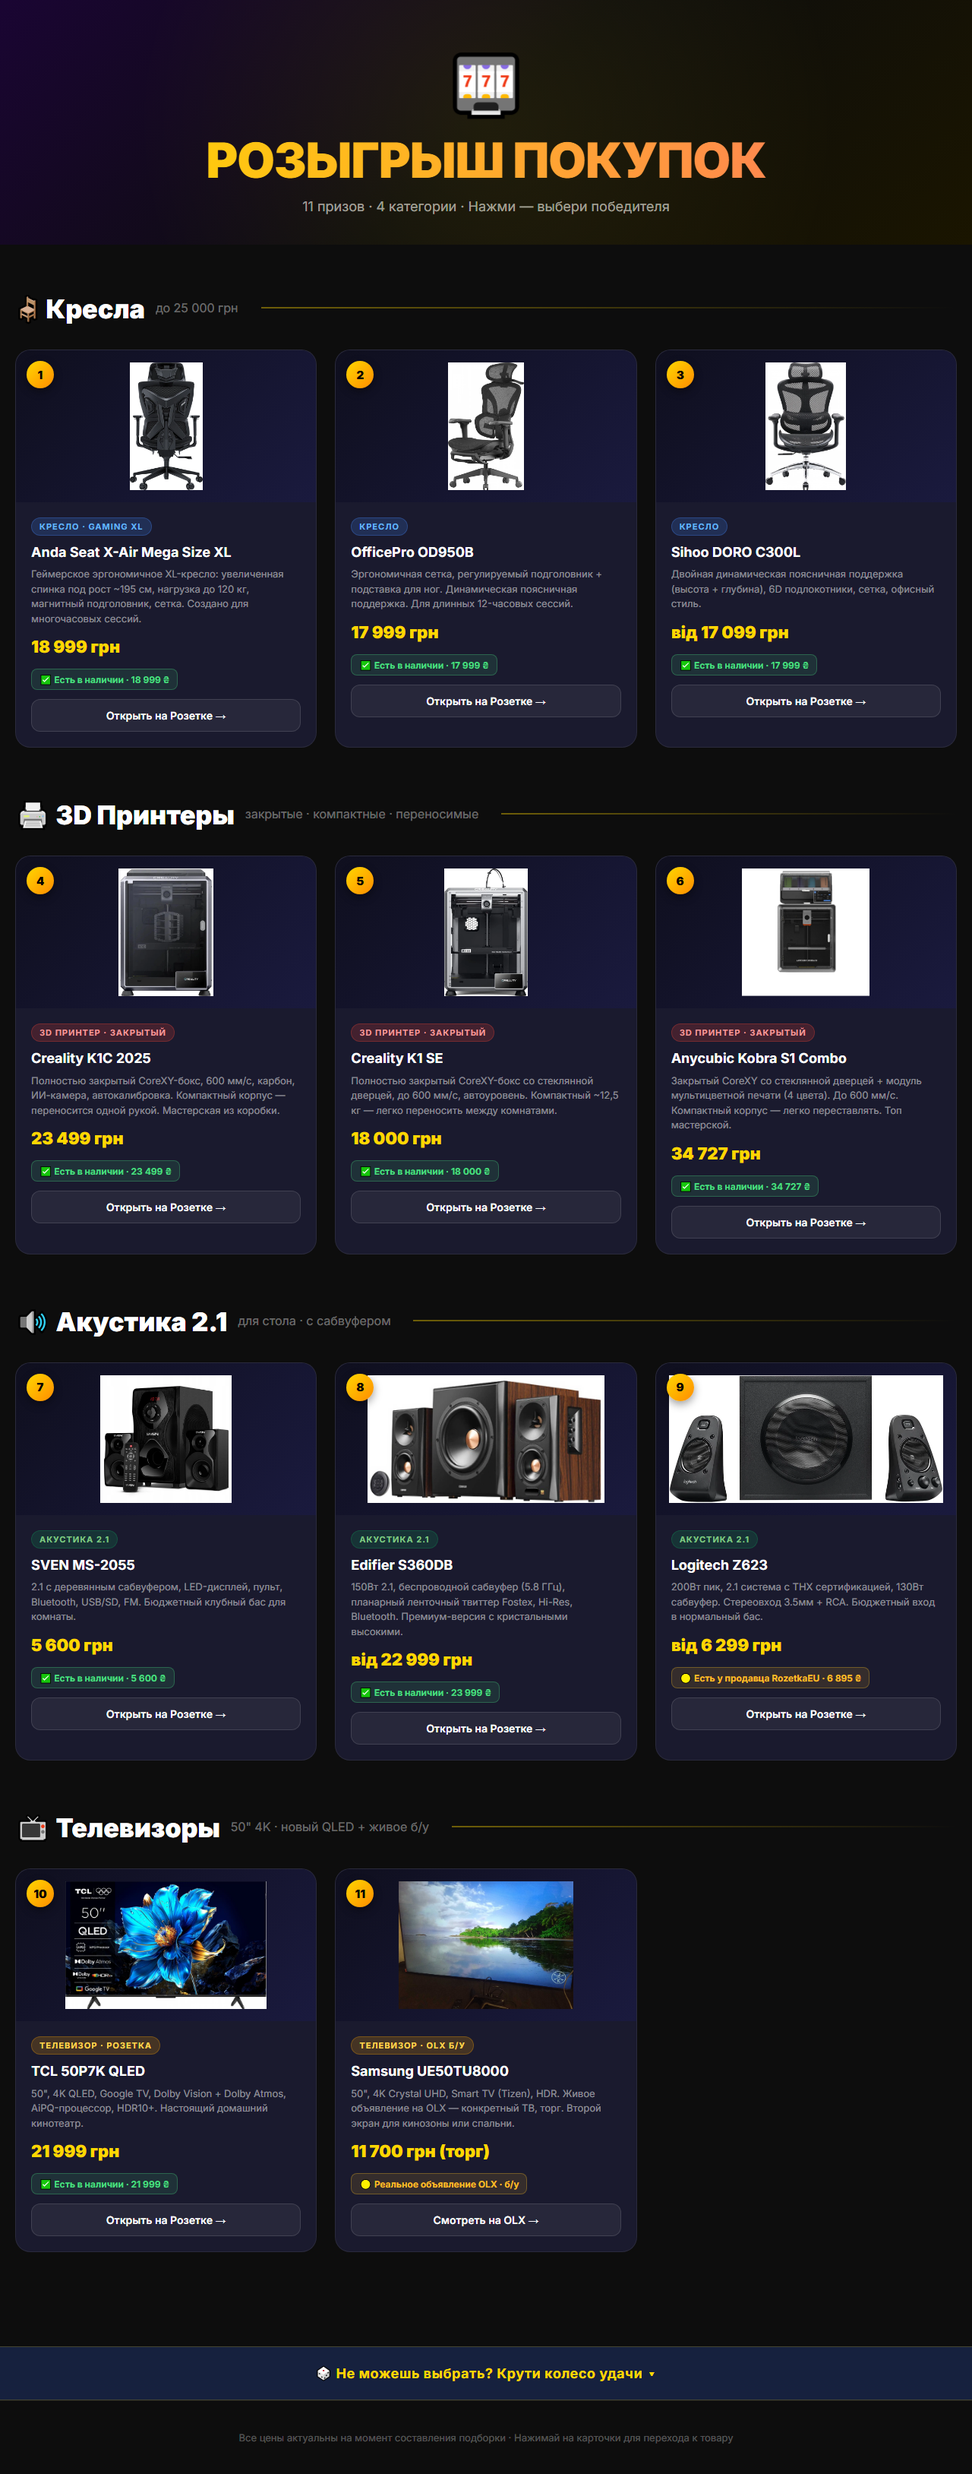
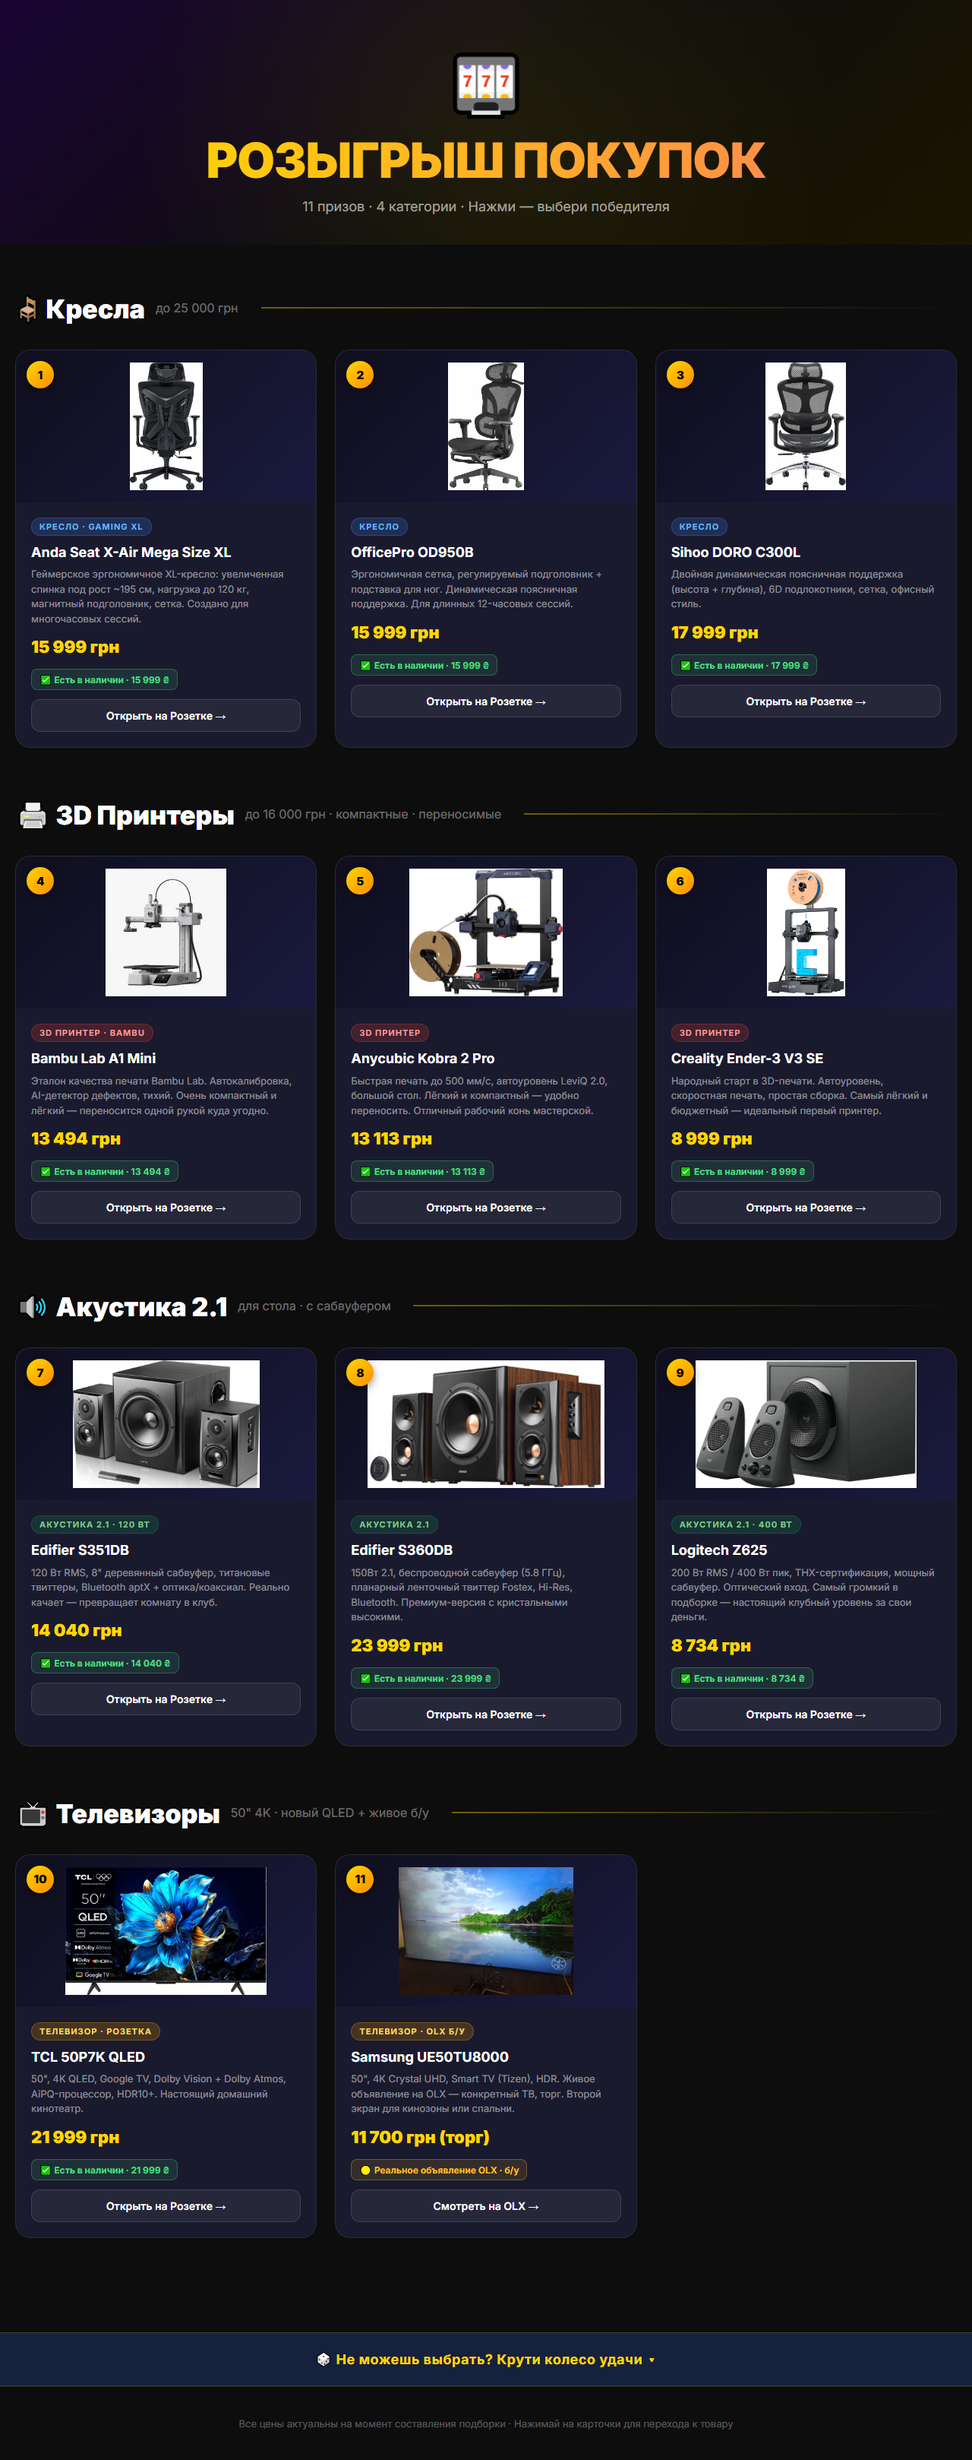
Исправить цены, ограничить принтеры до 16к (+Bambu), усилить колонки
- Сверил реальные цены на Rozetka и исправил расхождения (Anda Seat 15999, OfficePro 15999, Sihoo 17999, Edifier S360DB 23999 и др.)
- 3D-принтеры: потолок 16 000₴, добавлен Bambu Lab A1 Mini; заменены на компактные переносимые (A1 Mini, Kobra 2 Pro, Ender-3 V3 SE). Закрытых ≤16к в наличии нет — ярлык категории поправлен
- Колонки под клубный звук: слабый SVEN (55Вт) → Edifier S351DB (120Вт); Logitech Z623 (нет в наличии) → Z625 (200Вт RMS/400Вт пик THX, в наличии)

diff --git a/index.html b/index.html
@@ -292,8 +292,8 @@
         <span class="card-category-badge badge-chair">Кресло · Gaming XL</span>
         <div class="card-name">Anda Seat X-Air Mega Size XL</div>
         <div class="card-desc">Геймерское эргономичное XL-кресло: увеличенная спинка под рост ~195 см, нагрузка до 120 кг, магнитный подголовник, сетка. Создано для многочасовых сессий.</div>
-        <div class="card-price">18 999 грн</div>
-        <div class="stock stock-in">✅ Есть в наличии · 18 999 ₴</div>
+        <div class="card-price">15 999 грн</div>
+        <div class="stock stock-in">✅ Есть в наличии · 15 999 ₴</div>
         <a class="card-link" href="https://rozetka.com.ua/ua/anda-seat-ad-wy-01-bbb/p469810864/" target="_blank" onclick="event.stopPropagation()">Открыть на Розетке →</a>
       </div>
     </div>
@@ -306,8 +306,8 @@
         <span class="card-category-badge badge-chair">Кресло</span>
         <div class="card-name">OfficePro OD950B</div>
         <div class="card-desc">Эргономичная сетка, регулируемый подголовник + подставка для ног. Динамическая поясничная поддержка. Для длинных 12-часовых сессий.</div>
-        <div class="card-price">17 999 грн</div>
-        <div class="stock stock-in">✅ Есть в наличии · 17 999 ₴</div>
+        <div class="card-price">15 999 грн</div>
+        <div class="stock stock-in">✅ Есть в наличии · 15 999 ₴</div>
         <a class="card-link" href="https://rozetka.com.ua/ua/officepro-od950b/p538166189/" target="_blank" onclick="event.stopPropagation()">Открыть на Розетке →</a>
       </div>
     </div>
@@ -320,7 +320,7 @@
         <span class="card-category-badge badge-chair">Кресло</span>
         <div class="card-name">Sihoo DORO C300L</div>
         <div class="card-desc">Двойная динамическая поясничная поддержка (высота + глубина), 6D подлокотники, сетка, офисный стиль.</div>
-        <div class="card-price">від 17 099 грн</div>
+        <div class="card-price">17 999 грн</div>
         <div class="stock stock-in">✅ Есть в наличии · 17 999 ₴</div>
         <a class="card-link" href="https://rozetka.com.ua/ua/sihoo-doro-c300l-a3-101/p538166224/" target="_blank" onclick="event.stopPropagation()">Открыть на Розетке →</a>
       </div>
@@ -329,48 +329,48 @@
   </div>
 
   <!-- 3D ПРИНТЕРЫ -->
-  <div class="category-title">🖨 3D Принтеры <span style="font-size:16px;color:rgba(255,255,255,0.4);font-weight:400;">закрытые · компактные · переносимые</span></div>
+  <div class="category-title">🖨 3D Принтеры <span style="font-size:16px;color:rgba(255,255,255,0.4);font-weight:400;">до 16 000 грн · компактные · переносимые</span></div>
   <div class="grid">
 
-    <div class="card" data-num="4" onclick="window.open('https://rozetka.com.ua/ua/creality-k1c-2025/p565667075/','_blank')">
+    <div class="card" data-num="4" onclick="window.open('https://rozetka.com.ua/ua/464214894/p464214894/','_blank')">
       <div class="ticket-number">4</div>
-      <img class="product-img" src="images/printer4.jpg" alt="Creality K1C 2025" onerror="this.style.display='none';this.nextElementSibling.style.display='flex'">
+      <img class="product-img" src="images/a1mini.jpg" alt="Bambu Lab A1 Mini" onerror="this.style.display='none';this.nextElementSibling.style.display='flex'">
       <div class="product-img-placeholder" style="display:none;background:linear-gradient(135deg,#1a0a00,#3d1a00)">🖨</div>
       <div class="card-body">
-        <span class="card-category-badge badge-printer">3D Принтер · закрытый</span>
-        <div class="card-name">Creality K1C 2025</div>
-        <div class="card-desc">Полностью закрытый CoreXY-бокс, 600 мм/с, карбон, ИИ-камера, автокалибровка. Компактный корпус — переносится одной рукой. Мастерская из коробки.</div>
-        <div class="card-price">23 499 грн</div>
-        <div class="stock stock-in">✅ Есть в наличии · 23 499 ₴</div>
-        <a class="card-link" href="https://rozetka.com.ua/ua/creality-k1c-2025/p565667075/" target="_blank" onclick="event.stopPropagation()">Открыть на Розетке →</a>
+        <span class="card-category-badge badge-printer">3D Принтер · Bambu</span>
+        <div class="card-name">Bambu Lab A1 Mini</div>
+        <div class="card-desc">Эталон качества печати Bambu Lab. Автокалибровка, AI-детектор дефектов, тихий. Очень компактный и лёгкий — переносится одной рукой куда угодно.</div>
+        <div class="card-price">13 494 грн</div>
+        <div class="stock stock-in">✅ Есть в наличии · 13 494 ₴</div>
+        <a class="card-link" href="https://rozetka.com.ua/ua/464214894/p464214894/" target="_blank" onclick="event.stopPropagation()">Открыть на Розетке →</a>
       </div>
     </div>
 
-    <div class="card" data-num="5" onclick="window.open('https://rozetka.com.ua/ua/589148965/p589148965/','_blank')">
+    <div class="card" data-num="5" onclick="window.open('https://rozetka.com.ua/ua/3d_printers-anycubic-154557038/p555913074/','_blank')">
       <div class="ticket-number">5</div>
-      <img class="product-img" src="images/printerN5.jpg" alt="Creality K1 SE" onerror="this.style.display='none';this.nextElementSibling.style.display='flex'">
+      <img class="product-img" src="images/third.jpg" alt="Anycubic Kobra 2 Pro" onerror="this.style.display='none';this.nextElementSibling.style.display='flex'">
       <div class="product-img-placeholder" style="display:none;background:linear-gradient(135deg,#1a0a0a,#3d0a0a)">🖨</div>
       <div class="card-body">
-        <span class="card-category-badge badge-printer">3D Принтер · закрытый</span>
-        <div class="card-name">Creality K1 SE</div>
-        <div class="card-desc">Полностью закрытый CoreXY-бокс со стеклянной дверцей, до 600 мм/с, автоуровень. Компактный ~12,5 кг — легко переносить между комнатами.</div>
-        <div class="card-price">18 000 грн</div>
-        <div class="stock stock-in">✅ Есть в наличии · 18 000 ₴</div>
-        <a class="card-link" href="https://rozetka.com.ua/ua/589148965/p589148965/" target="_blank" onclick="event.stopPropagation()">Открыть на Розетке →</a>
+        <span class="card-category-badge badge-printer">3D Принтер</span>
+        <div class="card-name">Anycubic Kobra 2 Pro</div>
+        <div class="card-desc">Быстрая печать до 500 мм/с, автоуровень LeviQ 2.0, большой стол. Лёгкий и компактный — удобно переносить. Отличный рабочий конь мастерской.</div>
+        <div class="card-price">13 113 грн</div>
+        <div class="stock stock-in">✅ Есть в наличии · 13 113 ₴</div>
+        <a class="card-link" href="https://rozetka.com.ua/ua/3d_printers-anycubic-154557038/p555913074/" target="_blank" onclick="event.stopPropagation()">Открыть на Розетке →</a>
       </div>
     </div>
 
-    <div class="card" data-num="6" onclick="window.open('https://rozetka.com.ua/ua/505061949/p505061949/','_blank')">
+    <div class="card" data-num="6" onclick="window.open('https://rozetka.com.ua/ua/creality-ender-3-v3-se/p397954095/','_blank')">
       <div class="ticket-number">6</div>
-      <img class="product-img" src="images/printerN6.jpg" alt="Anycubic Kobra S1 Combo" onerror="this.style.display='none';this.nextElementSibling.style.display='flex'">
+      <img class="product-img" src="images/endse.jpg" alt="Creality Ender-3 V3 SE" onerror="this.style.display='none';this.nextElementSibling.style.display='flex'">
       <div class="product-img-placeholder" style="display:none;background:linear-gradient(135deg,#000d1a,#001a3d)">🖨</div>
       <div class="card-body">
-        <span class="card-category-badge badge-printer">3D Принтер · закрытый</span>
-        <div class="card-name">Anycubic Kobra S1 Combo</div>
-        <div class="card-desc">Закрытый CoreXY со стеклянной дверцей + модуль мультицветной печати (4 цвета). До 600 мм/с. Компактный корпус — легко переставлять. Топ мастерской.</div>
-        <div class="card-price">34 727 грн</div>
-        <div class="stock stock-in">✅ Есть в наличии · 34 727 ₴</div>
-        <a class="card-link" href="https://rozetka.com.ua/ua/505061949/p505061949/" target="_blank" onclick="event.stopPropagation()">Открыть на Розетке →</a>
+        <span class="card-category-badge badge-printer">3D Принтер</span>
+        <div class="card-name">Creality Ender-3 V3 SE</div>
+        <div class="card-desc">Народный старт в 3D-печати. Автоуровень, скоростная печать, простая сборка. Самый лёгкий и бюджетный — идеальный первый принтер.</div>
+        <div class="card-price">8 999 грн</div>
+        <div class="stock stock-in">✅ Есть в наличии · 8 999 ₴</div>
+        <a class="card-link" href="https://rozetka.com.ua/ua/creality-ender-3-v3-se/p397954095/" target="_blank" onclick="event.stopPropagation()">Открыть на Розетке →</a>
       </div>
     </div>
 
@@ -380,17 +380,17 @@
   <div class="category-title">🔊 Акустика 2.1 <span style="font-size:16px;color:rgba(255,255,255,0.4);font-weight:400;">для стола · с сабвуфером</span></div>
   <div class="grid">
 
-    <div class="card" data-num="7" onclick="window.open('https://rozetka.com.ua/ua/582369028/p582369028/','_blank')">
+    <div class="card" data-num="7" onclick="window.open('https://rozetka.com.ua/ua/591670591/p591670591/','_blank')">
       <div class="ticket-number">7</div>
-      <img class="product-img" src="images/speaker7.jpg" alt="SVEN MS-2055 2.1" onerror="this.style.display='none';this.nextElementSibling.style.display='flex'">
+      <img class="product-img" src="images/speaker7.jpg" alt="Edifier S351DB" onerror="this.style.display='none';this.nextElementSibling.style.display='flex'">
       <div class="product-img-placeholder" style="display:none;background:linear-gradient(135deg,#0a1a0a,#1a2a0a)">🔊</div>
       <div class="card-body">
-        <span class="card-category-badge badge-speaker">Акустика 2.1</span>
-        <div class="card-name">SVEN MS-2055</div>
-        <div class="card-desc">2.1 с деревянным сабвуфером, LED-дисплей, пульт, Bluetooth, USB/SD, FM. Бюджетный клубный бас для комнаты.</div>
-        <div class="card-price">5 600 грн</div>
-        <div class="stock stock-in">✅ Есть в наличии · 5 600 ₴</div>
-        <a class="card-link" href="https://rozetka.com.ua/ua/582369028/p582369028/" target="_blank" onclick="event.stopPropagation()">Открыть на Розетке →</a>
+        <span class="card-category-badge badge-speaker">Акустика 2.1 · 120 Вт</span>
+        <div class="card-name">Edifier S351DB</div>
+        <div class="card-desc">120 Вт RMS, 8" деревянный сабвуфер, титановые твиттеры, Bluetooth aptX + оптика/коаксиал. Реально качает — превращает комнату в клуб.</div>
+        <div class="card-price">14 040 грн</div>
+        <div class="stock stock-in">✅ Есть в наличии · 14 040 ₴</div>
+        <a class="card-link" href="https://rozetka.com.ua/ua/591670591/p591670591/" target="_blank" onclick="event.stopPropagation()">Открыть на Розетке →</a>
       </div>
     </div>
 
@@ -402,23 +402,23 @@
         <span class="card-category-badge badge-speaker">Акустика 2.1</span>
         <div class="card-name">Edifier S360DB</div>
         <div class="card-desc">150Вт 2.1, беспроводной сабвуфер (5.8 ГГц), планарный ленточный твиттер Fostex, Hi-Res, Bluetooth. Премиум-версия с кристальными высокими.</div>
-        <div class="card-price">від 22 999 грн</div>
+        <div class="card-price">23 999 грн</div>
         <div class="stock stock-in">✅ Есть в наличии · 23 999 ₴</div>
         <a class="card-link" href="https://rozetka.com.ua/ua/edifier_s360db_brown/p29001465/" target="_blank" onclick="event.stopPropagation()">Открыть на Розетке →</a>
       </div>
     </div>
 
-    <div class="card" data-num="9" onclick="window.open('https://rozetka.com.ua/logitech_2.1_z623_980_000403/p153530/','_blank')">
+    <div class="card" data-num="9" onclick="window.open('https://rozetka.com.ua/ua/logitech-980-001256/p421218996/','_blank')">
       <div class="ticket-number">9</div>
-      <img class="product-img" src="images/p9.jpg" alt="Logitech Z623" onerror="this.style.display='none';this.nextElementSibling.style.display='flex'">
+      <img class="product-img" src="images/p9.jpg" alt="Logitech Z625" onerror="this.style.display='none';this.nextElementSibling.style.display='flex'">
       <div class="product-img-placeholder" style="display:none;background:linear-gradient(135deg,#001a1a,#003d3d)">🔊</div>
       <div class="card-body">
-        <span class="card-category-badge badge-speaker">Акустика 2.1</span>
-        <div class="card-name">Logitech Z623</div>
-        <div class="card-desc">200Вт пик, 2.1 система с THX сертификацией, 130Вт сабвуфер. Стереовход 3.5мм + RCA. Бюджетный вход в нормальный бас.</div>
-        <div class="card-price">від 6 299 грн</div>
-        <div class="stock stock-alt">🟡 Есть у продавца RozetkaEU · 6 895 ₴</div>
-        <a class="card-link" href="https://rozetka.com.ua/logitech_2.1_z623_980_000403/p153530/" target="_blank" onclick="event.stopPropagation()">Открыть на Розетке →</a>
+        <span class="card-category-badge badge-speaker">Акустика 2.1 · 400 Вт</span>
+        <div class="card-name">Logitech Z625</div>
+        <div class="card-desc">200 Вт RMS / 400 Вт пик, THX-сертификация, мощный сабвуфер. Оптический вход. Самый громкий в подборке — настоящий клубный уровень за свои деньги.</div>
+        <div class="card-price">8 734 грн</div>
+        <div class="stock stock-in">✅ Есть в наличии · 8 734 ₴</div>
+        <a class="card-link" href="https://rozetka.com.ua/ua/logitech-980-001256/p421218996/" target="_blank" onclick="event.stopPropagation()">Открыть на Розетке →</a>
       </div>
     </div>
 
